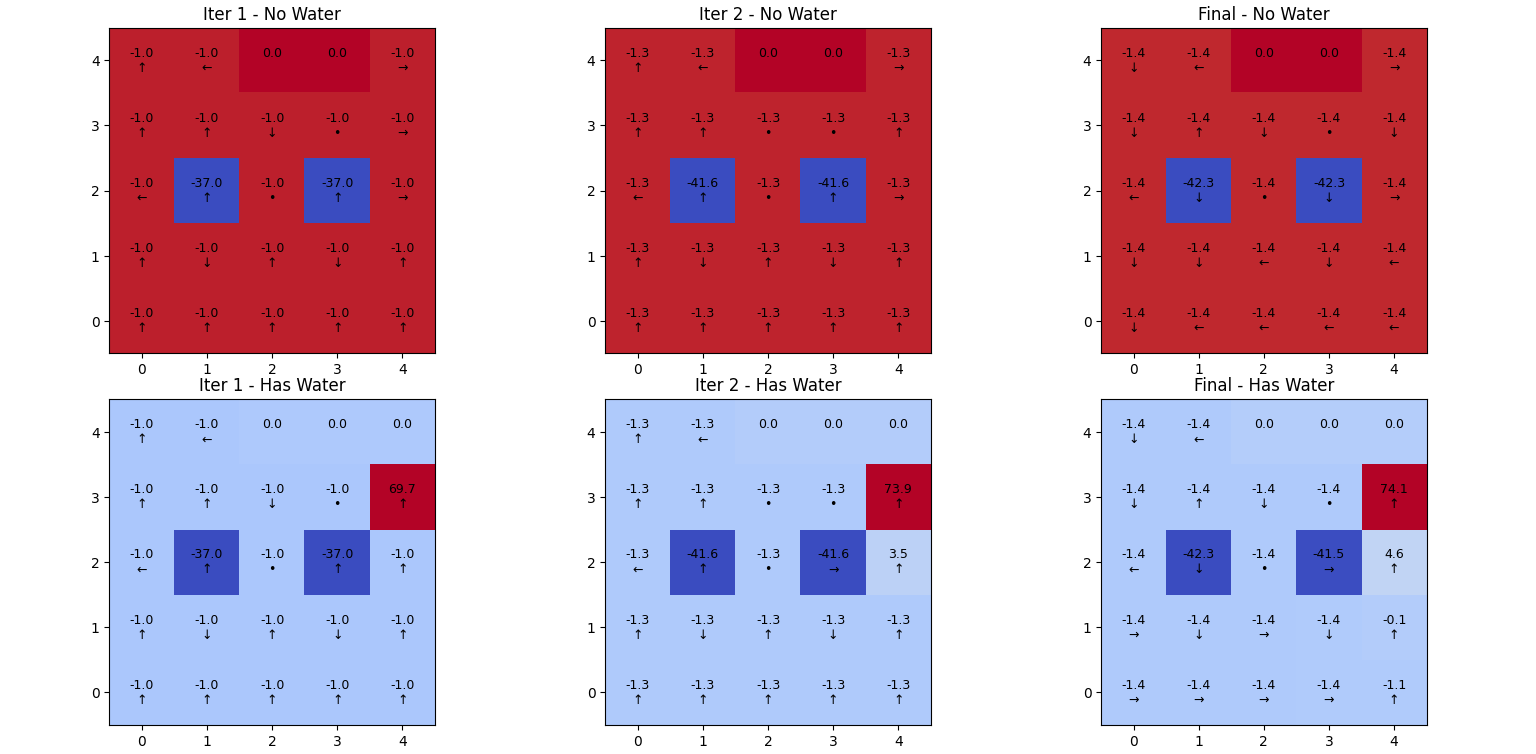
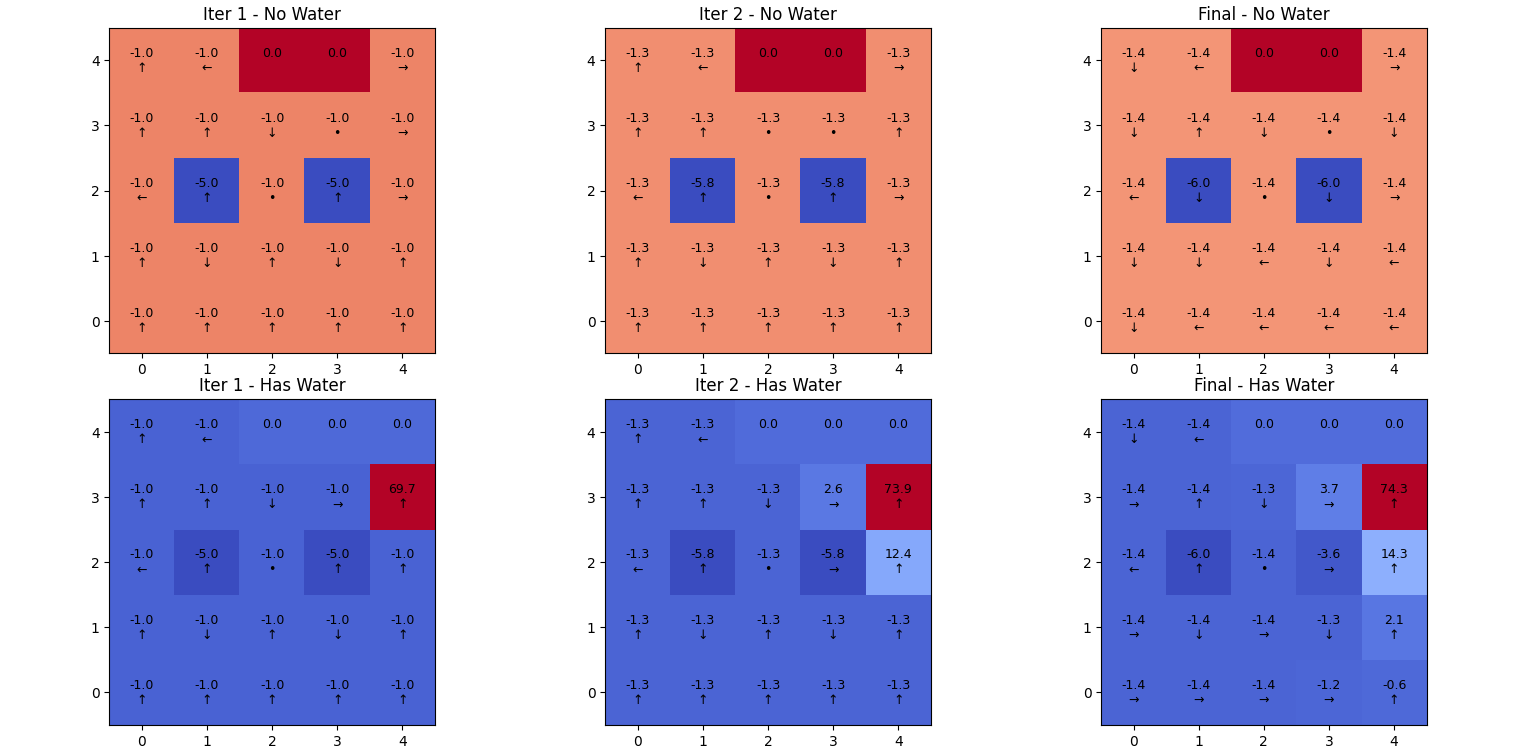
imgupdate

diff --git a/Assignment 1/Task 1/task1.py b/Assignment 1/Task 1/task1.py
@@ -103,7 +103,7 @@ def compute_reward(state, next_state):
         return 100
     reward = -1
     if (x, y) in smoke_cells:
-        reward -= 90
+        reward -= 10
     return reward
 
 def value_iteration():
